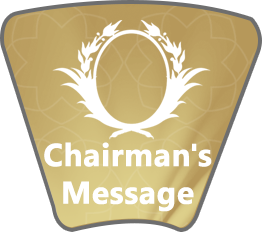
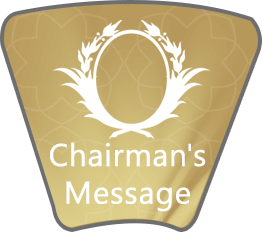
changes

Changed region(s): [[0.1527, 0.6034, 0.8244, 0.7241], [0.2137, 0.7845, 0.7634, 0.9052]]

diff --git a/templates/ar/ContactUs.html b/templates/ar/ContactUs.html
@@ -6,6 +6,23 @@
         <div class="Wrapper animated03 fadeInRightBig">
 
 
+            <h3 class="InnerTitle">الوصول إلينا</h3>
+            <h4>الراشدية [المقر الرئيسى]</h4>
+            <p>
+                الأحد – الخميس من 7:30 صباحاً الي 2:30 مساءاً
+            </p>
+            <h4>مركز الحميدية</h4>
+            <p>
+                الأحد – الخميس من 7:30 صباحاً الي 5:00 مساءاً
+            </p>
+            <h4>مركز مصفوت</h4>
+            <p>
+                الأحد – الخميس من 7:30 صباحاً الي 2:30 ظهراً
+            </p>
+            <h4>مركز المنامة</h4>
+            <p>
+                الأحد – الخميس من 7:30 صباحاً الي 2:30 ظهراً
+            </p>
             <!--START-->
             <div class="MapsTapsWrapper">
                 <ion-tabs class="tabs-light tabs-icon-top tabs-top">
@@ -49,24 +66,7 @@
             </div>
             <!--END-->
 
-            <h3 class="InnerTitle">الوصول إلينا</h3>
-            <h4>الراشدية [المقر الرئيسى]</h4>
-            <p>
-                الأحد – الخميس من 7:30 صباحاً الي 2:30 مساءاً
-            </p>
-            <h4>مركز الحميدية</h4>
-            <p>
-                الأحد – الخميس من 7:30 صباحاً الي 5:00 مساءاً
-            </p>
-            <h4>مركز مصفوت</h4>
-            <p>
-                الأحد – الخميس من 7:30 صباحاً الي 2:30 ظهراً
-            </p>
-            <h4>مركز المنامة</h4>
-            <p>
-                الأحد – الخميس من 7:30 صباحاً الي 2:30 ظهراً
-            </p>
-
+            <br />
             <h3 class="InnerTitle">معلومات الاتصال</h3>
             <h4>دائرة التنمية الاقتصادية  - عجمان</h4>
             <p>

diff --git a/templates/en/ContactUs.html b/templates/en/ContactUs.html
@@ -5,6 +5,24 @@
     <ion-content scroll="false" class="content">
         <div class="Wrapper animated03 fadeInRightBig">
 
+            <h3 class="InnerTitle">Get in Touch</h3>
+            <h4>Al Rashidiya 2 [Headquarter]</h4>
+            <p>
+                Sun - Thu: 7:30 am	- 2:30 pm
+            </p>
+            <h4>Al Humaidiya [Service Center]</h4>
+            <p>
+                Sun - Thu: 7:30 am	- 5:00 pm
+            </p>
+            <h4>Al Manamah [Service Center]</h4>
+            <p>
+                Sun - Thu: 7:30 am	-	2:30 pm
+            </p>
+            <h4>Masfout [Service Center]</h4>
+            <p>
+                Sun - Thu: 7:30 am	-	2:30 pm
+            </p>
+
             <!--START-->
             <div class="MapsTapsWrapper">
                 <ion-tabs class="tabs-light tabs-icon-top tabs-top">
@@ -47,25 +65,9 @@
                 </ion-tabs>
             </div>
             <!--END-->
-            <h3 class="InnerTitle">Get in Touch</h3>
-            <h4>Al Rashidiya 2 [Headquarter]</h4>
-            <p>
-                Sun - Thu: 7:30 am	- 2:30 pm
-            </p>
-            <h4>Al Humaidiya [Service Center]</h4>
-            <p>
-                Sun - Thu: 7:30 am	- 5:00 pm
-            </p>
-            <h4>Al Manamah [Service Center]</h4>
-            <p>
-                Sun - Thu: 7:30 am	-	2:30 pm
-            </p>
-            <h4>Masfout [Service Center]</h4>
-            <p>
-                Sun - Thu: 7:30 am	-	2:30 pm
-            </p>
 
 
+            <br />
             <h3 class="InnerTitle">Contact Information</h3>
             <h4>Ajman DED</h4>
             <p>

diff --git a/templates/ar/homePage.html b/templates/ar/homePage.html
@@ -31,9 +31,8 @@
                     <img ui-sref="OnlineServices" class='deg315' src='img/home/services.png'>
                 </div>
             </div>
-            <div style="height: 1em"></div>
-            <div class="TAC animated04 fadeIn">
-                <img src="img/ajmanlogo.png" style="width: 37%;" />
+            <div class="Home-Bottm-Logo animated04 fadeIn">
+                <img src="img/ajmanlogo.png" />
             </div>
         </ion-content>
     </ion-view>

diff --git a/templates/en/homePage.html b/templates/en/homePage.html
@@ -27,9 +27,8 @@
                 <img ui-sref="OnlineServices" class='deg315' src='img/home/en/services.png'>
             </div>
         </div>
-        <div style="height: 1em"></div>
-        <div class="TAC animated04 fadeIn">
-            <img src="img/ajmanlogo.png" style="width: 37%;" />
+        <div class="Home-Bottm-Logo animated04 fadeIn">
+            <img src="img/ajmanlogo.png" />
         </div>
     </ion-content>
 </ion-view>

diff --git a/css/global.css b/css/global.css
@@ -104,6 +104,7 @@ h3.InnerTitle {
     color: #333;
     background-color: #d7d5d0;
     padding: .4em 1em;
+    margin-bottom: .4em;
     font-size: 1em;
     border-bottom: 1px solid #ccc;
         line-height: 28px;
@@ -322,8 +323,7 @@ ul.VerticalList01 li {
 }
 .MapsTapsWrapper .has-header img 
 {
-    max-width: initial;
-    height: 12em
+    /*height: 12em*/
 }
 
 /**/

diff --git a/css/content.css b/css/content.css
@@ -307,7 +307,7 @@ filter: progid:DXImageTransform.Microsoft.gradient( startColorstr='#e7d8b9', end
 }
 
 .NewHeader {
-    background: rgb(137, 109, 50) !important;
+    background: rgb(182, 152, 90) !important;
     color: #FFF;
     /*font-family: "HelveticaNeueLTW20-Roma";*/
     font-size: 2.5em;

diff --git a/css/Iphon.css b/css/Iphon.css
@@ -29,10 +29,10 @@
 }
 
 .Wrapper {
-    margin-top: -75px !important;
+    margin-top: -60px !important;
     padding-top: 0px !important;
     padding-bottom: 25px !important;
-    max-height: 80vh !important;
+    max-height: 75vh !important;
 }
 
 .NewHeader {
